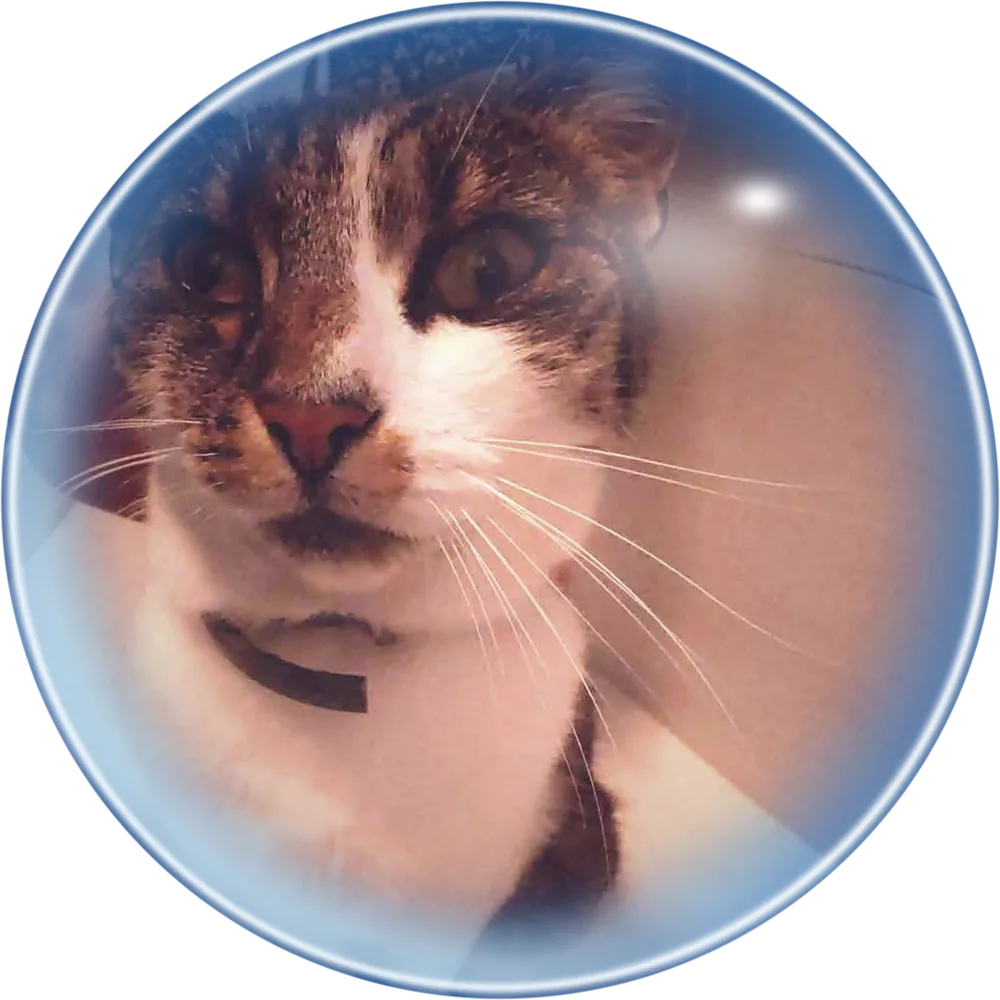
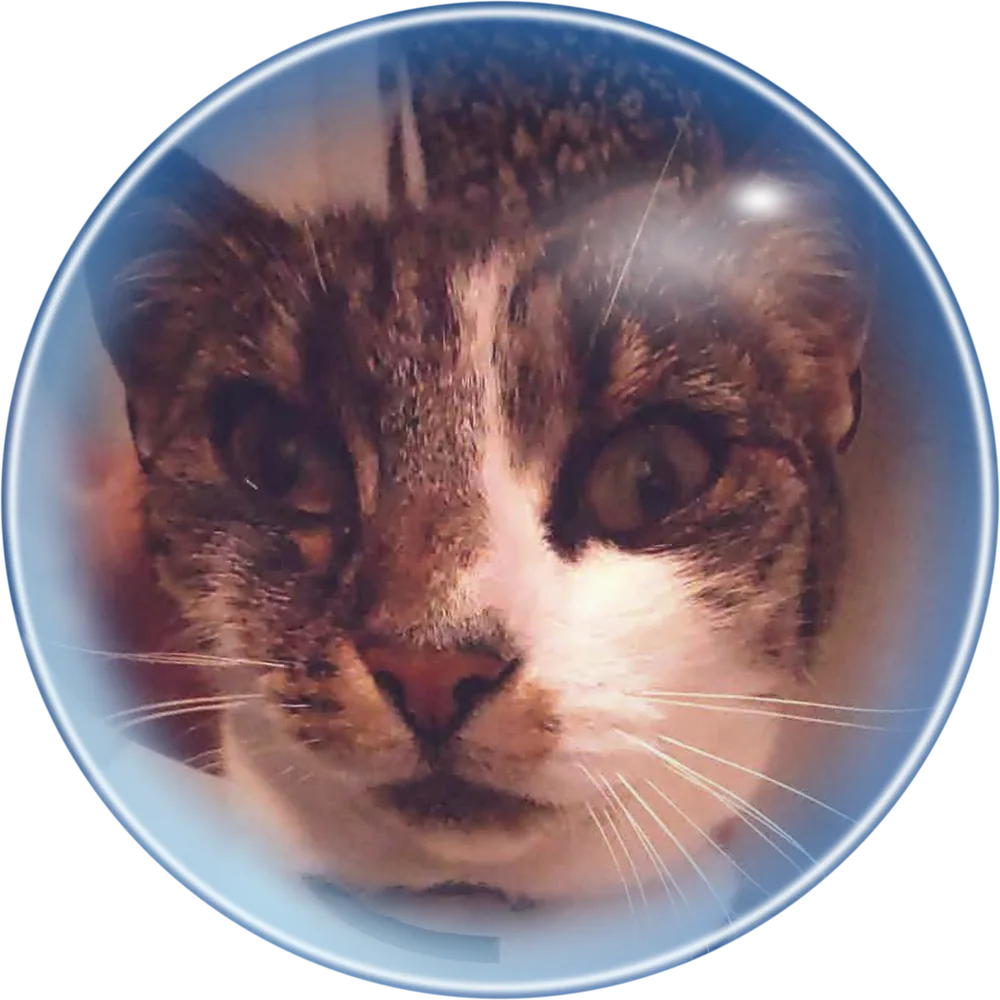
Spirina: nové ořezy fotek a text „+ možnost polaskat nejmazlivější CAR v okolí:“
Claude-Session: https://claude.ai/code/session_01MKZeHyBqHM7MjpqMpnx169

diff --git a/index.html b/index.html
@@ -264,8 +264,9 @@ a.gum:active{transform:translateY(1px)}
 
 /* ===== Spirina (FRENZY styl: štětcové písmo, bílo-limetková plocha, černý obrys, limetková kontura) ===== */
 .spirina{padding-top:100px;--beat:0}
-.sp-kicker{margin:0;font:700 clamp(22px,6.6vw,42px)/1.1 var(--px);color:var(--deep);transform:rotate(-2deg);
+.sp-kicker{margin:0;max-width:22em;font:700 clamp(21px,6vw,40px)/1.15 var(--px);color:var(--deep);transform:rotate(-2deg);
   text-shadow:0 0 6px #fff,0 0 14px #fff,3px 3px 0 rgba(25,167,230,.35)}
+.sp-kicker .car{display:inline-block;margin:0 .08em;font:400 1.3em/1 "Knewave","Arial Black",var(--sans);letter-spacing:.02em;color:#d6ff3a;-webkit-text-stroke:.07em #050505;paint-order:stroke fill;text-shadow:.05em .07em 0 #050505,0 0 .3em rgba(190,255,40,.8);transform:rotate(-4deg) translateY(.04em)}
 .sp-stage{position:relative;display:grid;place-items:center;margin-top:4px;padding:40px 0 46px}
 .sp-rays{position:absolute;left:50%;top:50%;width:min(150%,980px);aspect-ratio:1;border-radius:50%;pointer-events:none;
   background:repeating-conic-gradient(rgba(184,255,30,.3) 0 5deg,rgba(255,255,255,0) 5deg 15deg,rgba(40,170,240,.26) 15deg 20deg,rgba(255,255,255,0) 20deg 30deg);
@@ -319,6 +320,7 @@ a.gum:active{transform:translateY(1px)}
     radial-gradient(circle,rgba(190,235,255,.12) 0 54%,rgba(60,170,235,.4) 67%,rgba(255,255,255,.9) 71%,rgba(255,255,255,0) 73%);
   animation:bub-bob var(--t) ease-in-out infinite;animation-delay:var(--d)}
 @media (min-width:900px){
+  .sp-kicker{max-width:none}
   .sp-stage{padding:56px 0 64px}
   .sp-bubbles{aspect-ratio:2.15/1;margin-top:0}
   .bub-main{left:29%;top:0;width:42%}
@@ -531,7 +533,7 @@ a.gum:active{transform:translateY(1px)}
 
 <!-- ================= SPIRINA ================= -->
 <section class="spirina wrap" aria-label="Spirina">
-  <p class="sp-kicker">nejmazlivější car v okolí:</p>
+  <p class="sp-kicker">+ možnost polaskat nejmazlivější <b class="car">CAR</b> v&nbsp;okolí:</p>
   <div class="sp-stage">
     <div class="sp-rays" aria-hidden="true"></div>
     <div class="sp-glow" aria-hidden="true"></div>
@@ -565,7 +567,7 @@ a.gum:active{transform:translateY(1px)}
     </div>
   </div>
   <div class="sp-bubbles">
-    <button class="bub bub-main" type="button" data-full="img/spirina-1.jpg" data-cap="Spirina" aria-label="Zvětšit fotku: Spirina" style="--t:7s;--d:0s"><img src="img/spirina-1-b.webp" width="1000" height="1000" alt="Kočka Spirina sedí na dlažbě a kouká do foťáku" loading="lazy" decoding="async"></button>
+    <button class="bub bub-main" type="button" data-full="img/spirina-1.jpg" data-cap="Spirina" aria-label="Zvětšit fotku: Spirina" style="--t:7s;--d:0s"><img src="img/spirina-1-b.webp" width="1000" height="1000" alt="Kočka Spirina zblízka, hlazení za uchem" loading="lazy" decoding="async"></button>
     <button class="bub bub-a" type="button" data-full="img/spirina-2.jpg" data-cap="Spirina" aria-label="Zvětšit fotku: Spirina zblízka" style="--t:5.5s;--d:-2s"><img src="img/spirina-2-b.webp" width="640" height="640" alt="Kočka Spirina zblízka, žluté oči" loading="lazy" decoding="async"></button>
     <button class="bub bub-b" type="button" data-full="img/spirina-3.jpg" data-cap="Spirina" aria-label="Zvětšit fotku: Spirina v trávě" style="--t:6.2s;--d:-4s"><img src="img/spirina-3-b.webp" width="640" height="640" alt="Kočka Spirina leží v trávě mezi listy cuket" loading="lazy" decoding="async"></button>
     <i class="bub-deco d1" style="--t:6s;--d:-1s" aria-hidden="true"></i>

diff --git a/src/template.html b/src/template.html
@@ -264,8 +264,9 @@ a.gum:active{transform:translateY(1px)}
 
 /* ===== Spirina (FRENZY styl: štětcové písmo, bílo-limetková plocha, černý obrys, limetková kontura) ===== */
 .spirina{padding-top:100px;--beat:0}
-.sp-kicker{margin:0;font:700 clamp(22px,6.6vw,42px)/1.1 var(--px);color:var(--deep);transform:rotate(-2deg);
+.sp-kicker{margin:0;max-width:22em;font:700 clamp(21px,6vw,40px)/1.15 var(--px);color:var(--deep);transform:rotate(-2deg);
   text-shadow:0 0 6px #fff,0 0 14px #fff,3px 3px 0 rgba(25,167,230,.35)}
+.sp-kicker .car{display:inline-block;margin:0 .08em;font:400 1.3em/1 "Knewave","Arial Black",var(--sans);letter-spacing:.02em;color:#d6ff3a;-webkit-text-stroke:.07em #050505;paint-order:stroke fill;text-shadow:.05em .07em 0 #050505,0 0 .3em rgba(190,255,40,.8);transform:rotate(-4deg) translateY(.04em)}
 .sp-stage{position:relative;display:grid;place-items:center;margin-top:4px;padding:40px 0 46px}
 .sp-rays{position:absolute;left:50%;top:50%;width:min(150%,980px);aspect-ratio:1;border-radius:50%;pointer-events:none;
   background:repeating-conic-gradient(rgba(184,255,30,.3) 0 5deg,rgba(255,255,255,0) 5deg 15deg,rgba(40,170,240,.26) 15deg 20deg,rgba(255,255,255,0) 20deg 30deg);
@@ -319,6 +320,7 @@ a.gum:active{transform:translateY(1px)}
     radial-gradient(circle,rgba(190,235,255,.12) 0 54%,rgba(60,170,235,.4) 67%,rgba(255,255,255,.9) 71%,rgba(255,255,255,0) 73%);
   animation:bub-bob var(--t) ease-in-out infinite;animation-delay:var(--d)}
 @media (min-width:900px){
+  .sp-kicker{max-width:none}
   .sp-stage{padding:56px 0 64px}
   .sp-bubbles{aspect-ratio:2.15/1;margin-top:0}
   .bub-main{left:29%;top:0;width:42%}
@@ -435,7 +437,7 @@ a.gum:active{transform:translateY(1px)}
 
 <!-- ================= SPIRINA ================= -->
 <section class="spirina wrap" aria-label="Spirina">
-  <p class="sp-kicker">nejmazlivější car v okolí:</p>
+  <p class="sp-kicker">+ možnost polaskat nejmazlivější <b class="car">CAR</b> v&nbsp;okolí:</p>
   <div class="sp-stage">
     <div class="sp-rays" aria-hidden="true"></div>
     <div class="sp-glow" aria-hidden="true"></div>
@@ -469,7 +471,7 @@ a.gum:active{transform:translateY(1px)}
     </div>
   </div>
   <div class="sp-bubbles">
-    <button class="bub bub-main" type="button" data-full="img/spirina-1.jpg" data-cap="Spirina" aria-label="Zvětšit fotku: Spirina" style="--t:7s;--d:0s"><img src="img/spirina-1-b.webp" width="1000" height="1000" alt="Kočka Spirina sedí na dlažbě a kouká do foťáku" loading="lazy" decoding="async"></button>
+    <button class="bub bub-main" type="button" data-full="img/spirina-1.jpg" data-cap="Spirina" aria-label="Zvětšit fotku: Spirina" style="--t:7s;--d:0s"><img src="img/spirina-1-b.webp" width="1000" height="1000" alt="Kočka Spirina zblízka, hlazení za uchem" loading="lazy" decoding="async"></button>
     <button class="bub bub-a" type="button" data-full="img/spirina-2.jpg" data-cap="Spirina" aria-label="Zvětšit fotku: Spirina zblízka" style="--t:5.5s;--d:-2s"><img src="img/spirina-2-b.webp" width="640" height="640" alt="Kočka Spirina zblízka, žluté oči" loading="lazy" decoding="async"></button>
     <button class="bub bub-b" type="button" data-full="img/spirina-3.jpg" data-cap="Spirina" aria-label="Zvětšit fotku: Spirina v trávě" style="--t:6.2s;--d:-4s"><img src="img/spirina-3-b.webp" width="640" height="640" alt="Kočka Spirina leží v trávě mezi listy cuket" loading="lazy" decoding="async"></button>
     <i class="bub-deco d1" style="--t:6s;--d:-1s" aria-hidden="true"></i>

diff --git a/src/make_bubbles.py b/src/make_bubbles.py
@@ -3,8 +3,8 @@ import sys, numpy as np
 from PIL import Image, ImageOps
 SRC, OUT = sys.argv[1], sys.argv[2]
 spec = [  # name, file, square crop (l, t, side), output diameter, highlight side (-1 vlevo, +1 vpravo)
-    ("spirina-1", "80d53636-image.jpg", (0, 130, 1480), 1000, 1),
-    ("spirina-2", "cada41a7-image.jpg", (40, 300, 1360), 640, -1),
+    ("spirina-1", "570b1dc2-image.jpg", (0, 40, 1187), 1000, 1),   # tvůj ořez (koupelna)
+    ("spirina-2", "6776d66c-image.jpg", (0, 0, 1264), 640, -1),    # tvůj ořez (portrét)
     ("spirina-3", "ea7706ca-image.jpg", (1050, 420, 2250), 640, -1),
 ]
 def smooth(a, b, x):
